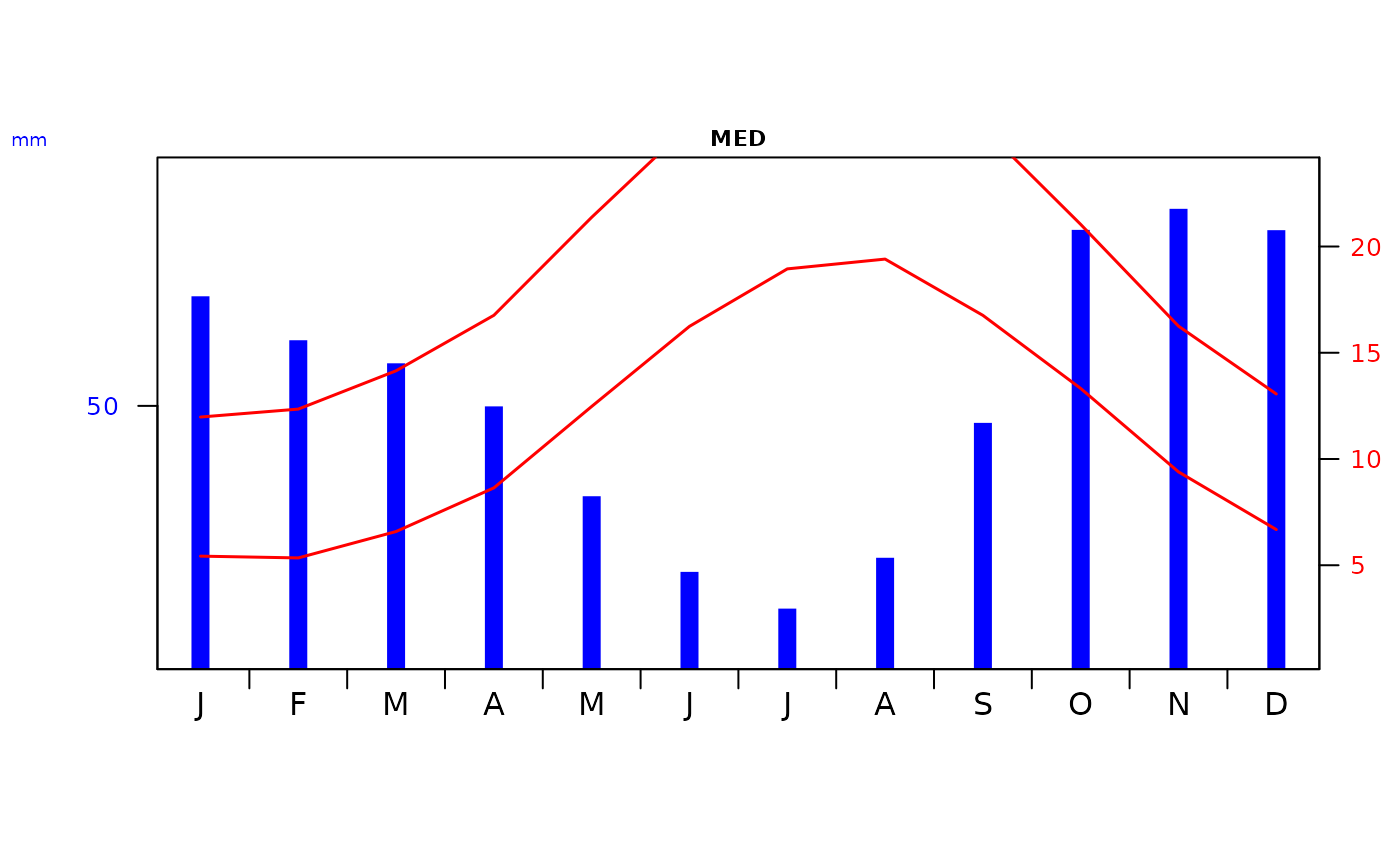
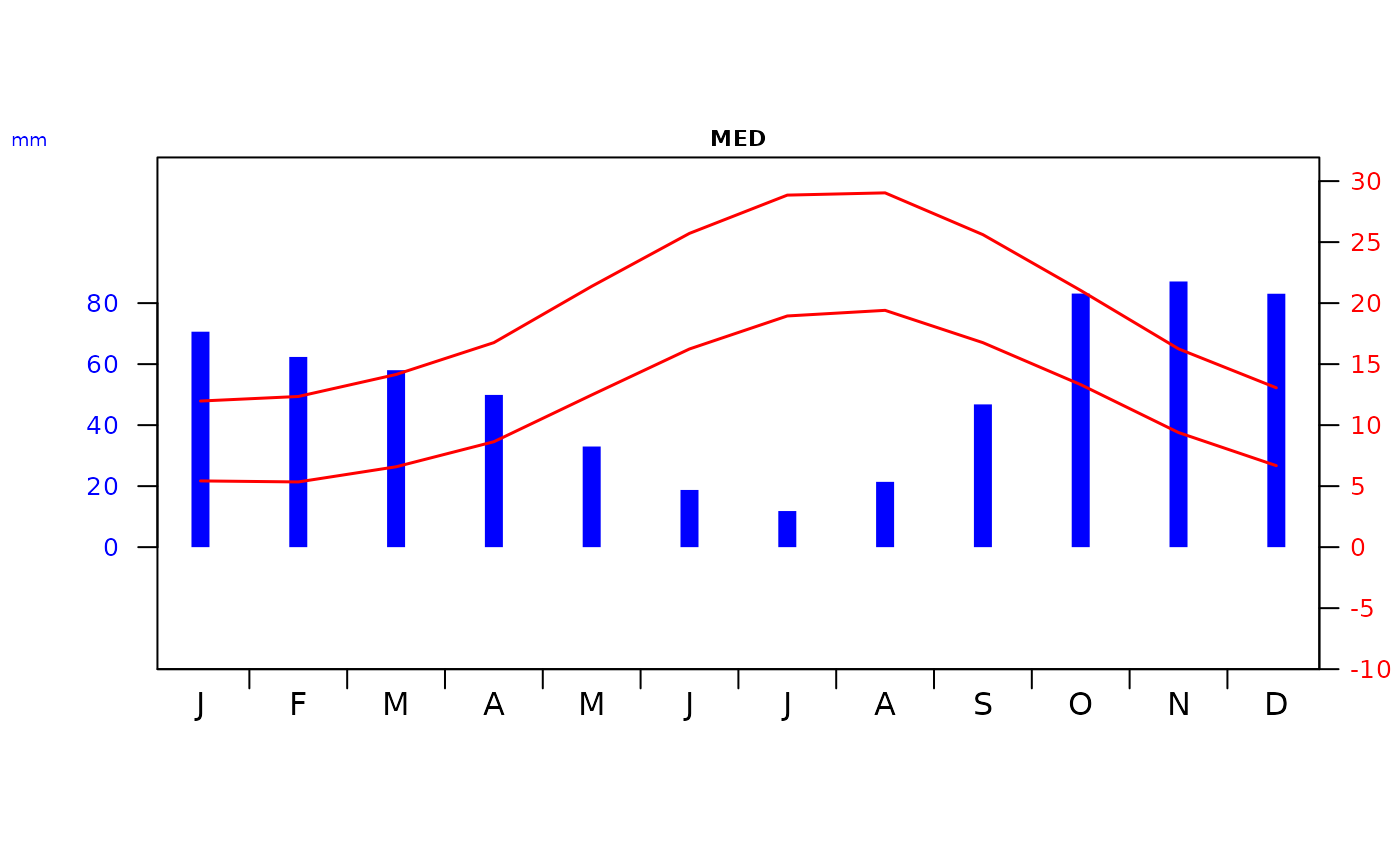
Built site for climenv: 1.0.0@9ef54a9

diff --git a/reference/plot_c.html b/reference/plot_c.html
@@ -70,6 +70,9 @@ from the <code>ce_extract</code> function.</p>
     <div class="sourceCode"><pre class="sourceCode r"><code><span><span class="fu">plot_c</span><span class="op">(</span></span>
 <span>  <span class="va">data</span>,</span>
 <span>  <span class="va">geo_id</span>,</span>
+<span>  interval_prec <span class="op">=</span> <span class="fl">20</span>,</span>
+<span>  interval_temp <span class="op">=</span> <span class="fl">5</span>,</span>
+<span>  stretch_temp <span class="op">=</span> <span class="fl">4</span>,</span>
 <span>  p_cex <span class="op">=</span> <span class="fl">1</span>,</span>
 <span>  nchr_main <span class="op">=</span> <span class="fl">32</span>,</span>
 <span>  l_main <span class="op">=</span> <span class="fl">0.1</span>,</span>
@@ -84,9 +87,27 @@ from the <code>ce_extract</code> function.</p>
 
     <div id="arguments">
     <h2>Arguments</h2>
-    <dl><dt>geo_id</dt>
+    <dl><dt>data</dt>
+<dd><p>List. Containing climate, elevation and latitude
+data sets. Structured by <code><a href="ce_extract.html">ce_extract()</a></code>.</p></dd>
+
+
+<dt>geo_id</dt>
 <dd><p>Character. Corresponding to a specific feature contained in the
 <code>"location"</code> argument (specifically in the <code>"location_g"</code> column).</p></dd>
+
+
+<dt>interval_prec</dt>
+<dd><p>Numeric. Interval of the precipitation axis.</p></dd>
+
+
+<dt>interval_temp</dt>
+<dd><p>Numeric. Interval of the temperature axis.</p></dd>
+
+
+<dt>stretch_temp</dt>
+<dd><p>Numeric. Ratio for stretching temperature relative to
+precipitation.</p></dd>
 
 
 <dt>p_cex</dt>
@@ -125,11 +146,6 @@ before wrapping to a new line.</p></dd>
 <dt>l_tcols</dt>
 <dd><p>List. Line position of the table columns. Must be length 5
 corresponding to the position (left to right) for each column.</p></dd>
-
-
-<dt>output_data_param</dt>
-<dd><p>List. Containing climate, elevation and latitude
-data sets. Structured by <code><a href="ce_extract.html">ce_extract()</a></code>.</p></dd>
 
 </dl></div>
     <div id="value">
@@ -171,9 +187,25 @@ Comprehensive R Archive Network. <a href="https://doi.org/10.5281/zenodo.5205573
 <span class="r-in"><span></span></span>
 <span class="r-in"><span><span class="co"># Step 4. Visualise the climatic envelope using our custom diagram</span></span></span>
 <span class="r-in"><span></span></span>
-<span class="r-in"><span><span class="fu">plot_c</span><span class="op">(</span>data <span class="op">=</span> <span class="va">it_data</span>, geo_id <span class="op">=</span> <span class="st">"MED"</span><span class="op">)</span></span></span>
+<span class="r-in"><span><span class="co"># first lets store the default graphics parameters</span></span></span>
+<span class="r-in"><span><span class="co"># we need to make some changes to ensure that the table fits in the plotting</span></span></span>
+<span class="r-in"><span><span class="co"># region.</span></span></span>
 <span class="r-in"><span></span></span>
+<span class="r-in"><span><span class="va">opar</span> <span class="op">&lt;-</span> <span class="fu"><a href="https://rdrr.io/r/graphics/par.html" class="external-link">par</a></span><span class="op">(</span><span class="op">)</span></span></span>
+<span class="r-in"><span><span class="fu"><a href="https://rdrr.io/r/graphics/par.html" class="external-link">par</a></span><span class="op">(</span>mar <span class="op">=</span> <span class="fu"><a href="https://rdrr.io/r/base/c.html" class="external-link">c</a></span><span class="op">(</span><span class="fl">1.5</span>, <span class="fl">2.2</span>, <span class="fl">1.5</span>, <span class="fl">14</span><span class="op">)</span> <span class="op">+</span> <span class="fl">0.01</span><span class="op">)</span> <span class="co"># We need to change a few things here</span></span></span>
+<span class="r-in"><span><span class="fu">plot_c</span><span class="op">(</span></span></span>
+<span class="r-in"><span>  <span class="va">it_data</span>, geo_id <span class="op">=</span> <span class="st">"MED"</span>,</span></span>
+<span class="r-in"><span>  l_tcols <span class="op">=</span> <span class="fu"><a href="https://rdrr.io/r/base/c.html" class="external-link">c</a></span><span class="op">(</span><span class="fl">14.5</span>, <span class="fl">17</span>, <span class="fl">18.5</span>, <span class="fl">19.5</span>, <span class="fl">21</span><span class="op">)</span></span></span>
+<span class="r-in"><span><span class="op">)</span></span></span>
+<span class="r-in"><span><span class="fu"><a href="https://rdrr.io/r/graphics/par.html" class="external-link">par</a></span><span class="op">(</span><span class="va">opar</span><span class="op">)</span></span></span>
+<span class="r-in"><span><span class="co"># This output works if you export to a three column width sized image.</span></span></span>
 <span class="r-in"><span><span class="op">}</span></span></span>
+<span class="r-wrn co"><span class="r-pr">#&gt;</span> <span class="warning">Warning: </span>graphical parameter "cin" cannot be set</span>
+<span class="r-wrn co"><span class="r-pr">#&gt;</span> <span class="warning">Warning: </span>graphical parameter "cra" cannot be set</span>
+<span class="r-wrn co"><span class="r-pr">#&gt;</span> <span class="warning">Warning: </span>graphical parameter "csi" cannot be set</span>
+<span class="r-wrn co"><span class="r-pr">#&gt;</span> <span class="warning">Warning: </span>graphical parameter "cxy" cannot be set</span>
+<span class="r-wrn co"><span class="r-pr">#&gt;</span> <span class="warning">Warning: </span>graphical parameter "din" cannot be set</span>
+<span class="r-wrn co"><span class="r-pr">#&gt;</span> <span class="warning">Warning: </span>graphical parameter "page" cannot be set</span>
 <span class="r-plt img"><img src="plot_c-1.png" alt="" width="700" height="433"></span>
 <span class="r-in"><span></span></span>
 </code></pre></div>

diff --git a/reference/plot_h.html b/reference/plot_h.html
@@ -72,7 +72,12 @@ from the <code>ce_extract</code> function.</p>
 
     <div id="arguments">
     <h2>Arguments</h2>
-    <dl><dt>geo_id</dt>
+    <dl><dt>data</dt>
+<dd><p>List. Containing climate, elevation and latitude
+data sets. Structured by <code><a href="ce_extract.html">ce_extract()</a></code>.</p></dd>
+
+
+<dt>geo_id</dt>
 <dd><p>Character. Corresponding to a specific feature contained in the
 <code>"location"</code> argument (specifically in the <code>"location_g"</code> column).</p></dd>
 
@@ -81,17 +86,12 @@ from the <code>ce_extract</code> function.</p>
 <dd><p>Arguments to control point styling in
 <code>HoldridgePoints()</code>.</p></dd>
 
-
-<dt>output_data_param</dt>
-<dd><p>List. Containing climate, elevation and latitude
-data sets. Structured by <code><a href="ce_extract.html">ce_extract()</a></code>.</p></dd>
-
 </dl></div>
     <div id="value">
     <h2>Value</h2>
     
 
-<p>Returns a 'ggplot2' family of plot. This function uses the
+<p>Returns a base R family of plot. This function uses the
 <span class="pkg">macroBiome</span> and <span class="pkg">Ternary</span> packages to create a Holdridge simplex
 plot.</p>
     </div>

diff --git a/reference/plot_wl.html b/reference/plot_wl.html
@@ -72,7 +72,12 @@ from the <code>ce_extract</code> function.</p>
 
     <div id="arguments">
     <h2>Arguments</h2>
-    <dl><dt>geo_id</dt>
+    <dl><dt>data</dt>
+<dd><p>List. Containing climate, elevation and latitude
+data sets. Structured by <code><a href="ce_extract.html">ce_extract()</a></code>.</p></dd>
+
+
+<dt>geo_id</dt>
 <dd><p>Character. Corresponding to a specific feature contained in the
 <code>"location"</code> argument (specifically in the <code>"location_g"</code> column).</p></dd>
 
@@ -81,17 +86,12 @@ from the <code>ce_extract</code> function.</p>
 <dd><p>Arguments to control styling in
 <code>ggclimat_walter_lieth()</code>.</p></dd>
 
-
-<dt>output_data_param</dt>
-<dd><p>List. Containing climate, elevation and latitude
-data sets. Structured by <code><a href="ce_extract.html">ce_extract()</a></code>.</p></dd>
-
 </dl></div>
     <div id="value">
     <h2>Value</h2>
     
 
-<p>Returns a 'ggplot2' family of plot. This function uses the
+<p>Returns a base R family of plot. This function uses the
 <span class="pkg">climaemet</span> package to create the Walter and Lieth (1960) climatic
 diagram.</p>
     </div>

diff --git a/articles/Italian_Biomes.html b/articles/Italian_Biomes.html
@@ -83,7 +83,7 @@
 Tsakalos (<a href="mailto:james.tsakalos@gmail.com" class="email">james.tsakalos@gmail.com</a>), Martin R. Smith, Frederico
 Luebert, Ladislav Mucina</h4>
             
-            <h4 data-toc-skip class="date">2023-06-27</h4>
+            <h4 data-toc-skip class="date">2023-06-28</h4>
       
       <small class="dont-index">Source: <a href="https://github.com/jamestsakalos/climenv/blob/HEAD/vignettes/Italian_Biomes.Rmd" class="external-link"><code>vignettes/Italian_Biomes.Rmd</code></a></small>
       <div class="hidden name"><code>Italian_Biomes.Rmd</code></div>

diff --git a/articles/climenv.html b/articles/climenv.html
@@ -84,7 +84,7 @@
 Tsakalos (<a href="mailto:james.tsakalos@gmail.com" class="email">james.tsakalos@gmail.com</a>), Martin R. Smith, Frederico
 Luebert, Ladislav Mucina</h4>
             
-            <h4 data-toc-skip class="date">2023-06-27</h4>
+            <h4 data-toc-skip class="date">2023-06-28</h4>
       
       <small class="dont-index">Source: <a href="https://github.com/jamestsakalos/climenv/blob/HEAD/vignettes/climenv.Rmd" class="external-link"><code>vignettes/climenv.Rmd</code></a></small>
       <div class="hidden name"><code>climenv.Rmd</code></div>
